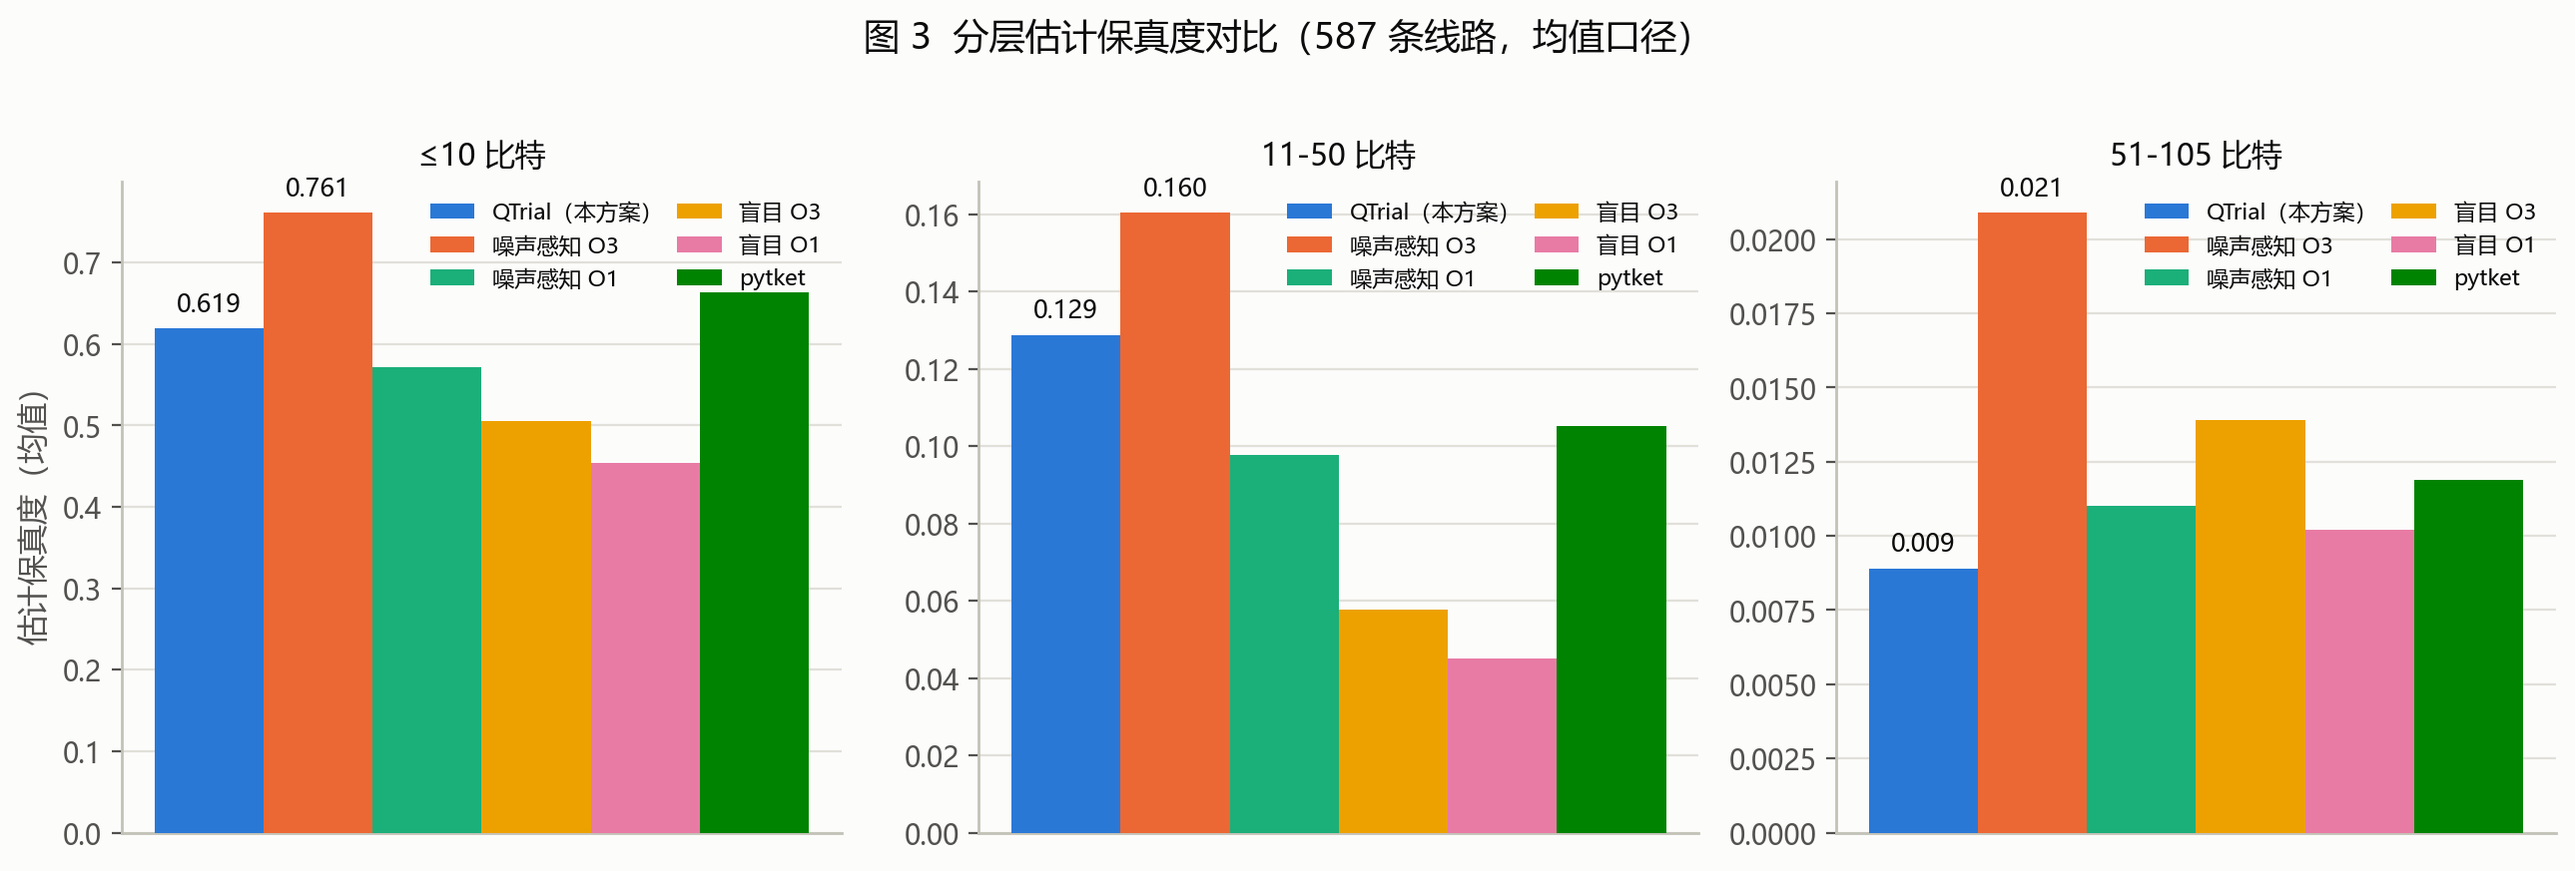
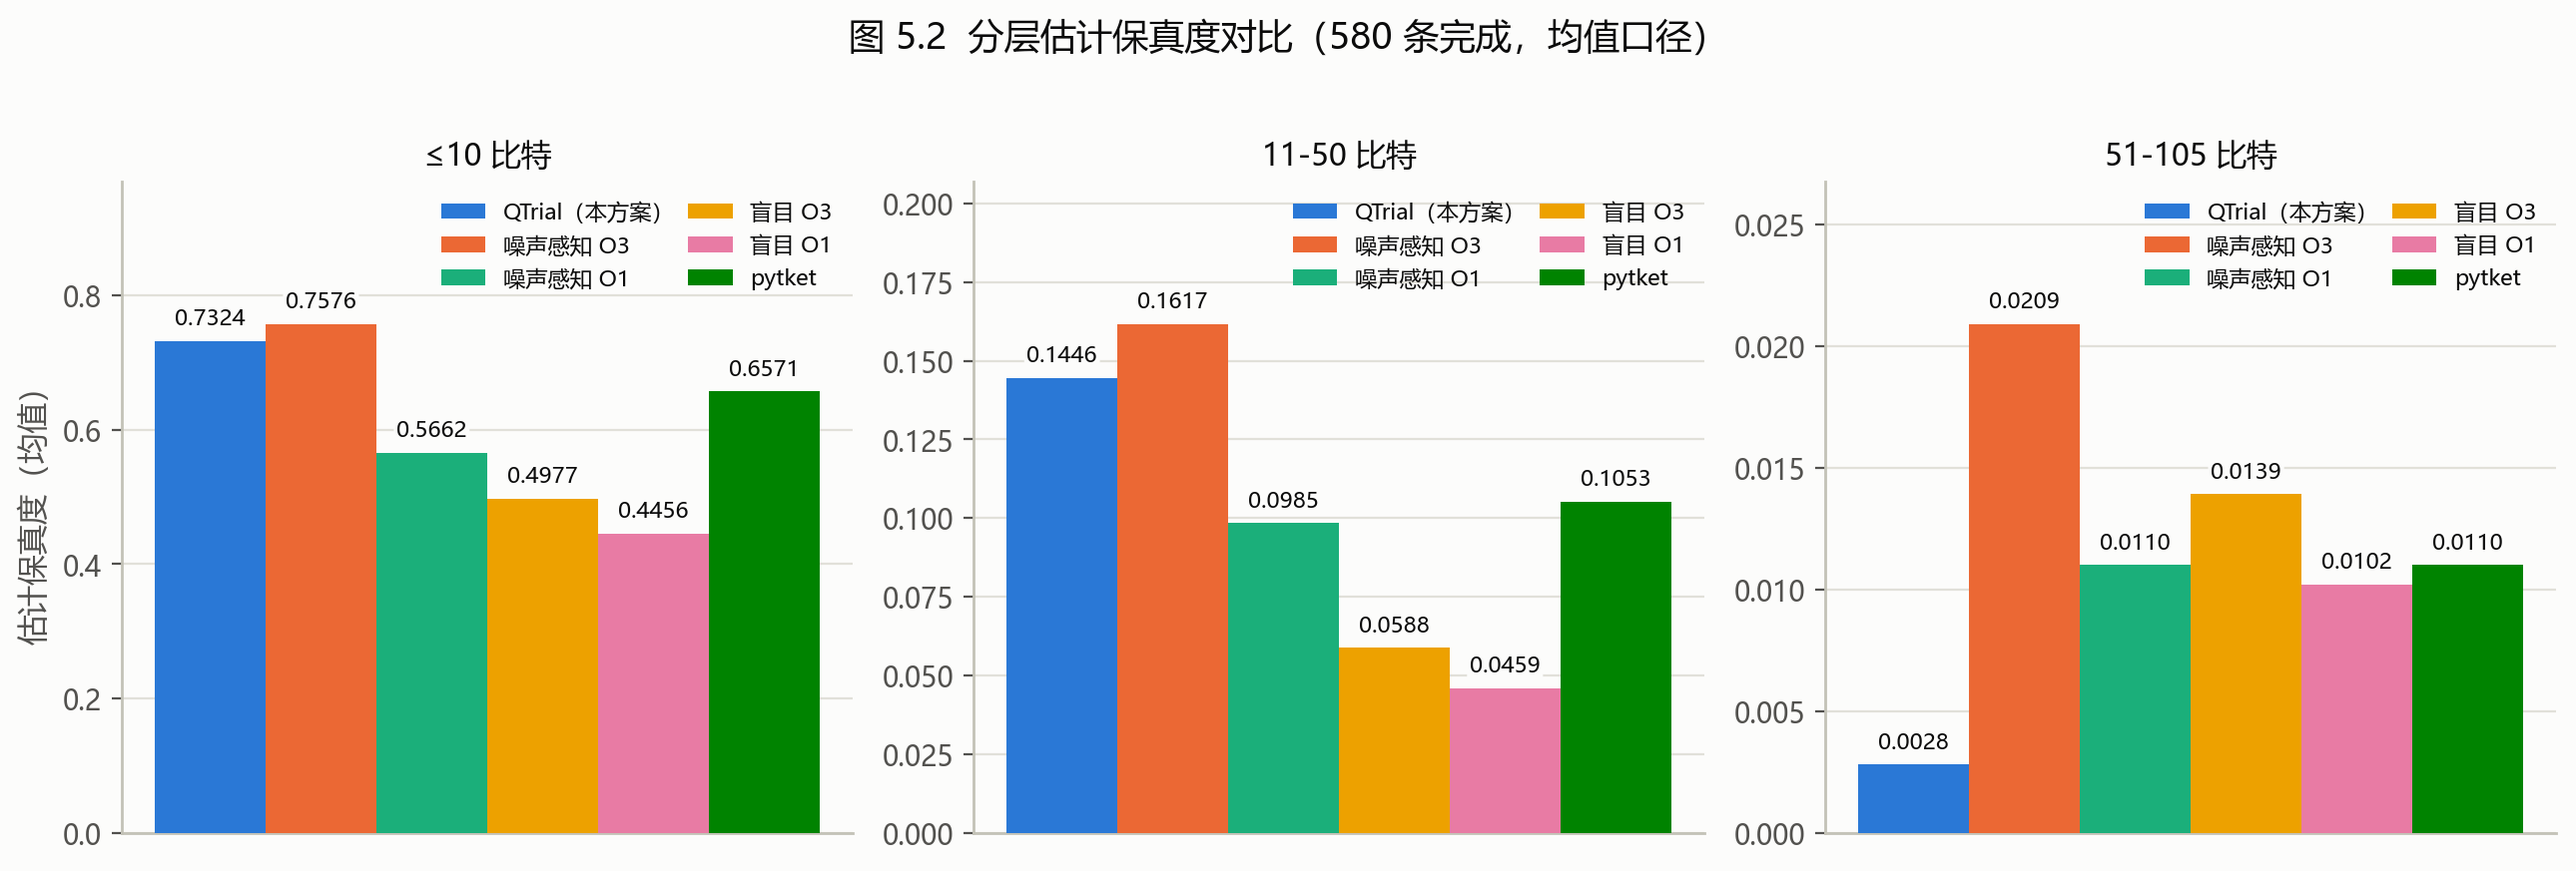
按初赛报告书脚本风格重生成 v8 实验结果图
- 恢复 make_report_figures 的三面板/顶部图例/横排数值风格，并生成 thesis 5.1-5.10
- 数据改用 v8 同口径（127/254/199=580 完成）；替换外部 agent 的单面板竖排版本
- 5.3 增加顶部留白、5.9 加宽画布避免标签重叠
- 5.7/5.8 用 make_runtime_compare 原风格重生成到 thesis

diff --git a/scripts/make_report_figures.py b/scripts/make_report_figures.py
@@ -127,11 +127,15 @@ def load_final_report():
     sections = re.split(r"\n## ", text)
     strata_map = {"≤10": "≤10 比特", "11-50": "11-50 比特", "51-105": "51-105 比特"}
     wins = {"感知O3": 0, "pytket": 0, "盲目O1": 0}
+    counts = {}
     for sec in sections:
         title = sec.split("\n", 1)[0]
         key = next((k for k in strata_map if title.startswith(k)), None)
         if key is None:
             continue
+        mc = re.search(r"（(\d+) 条完成", title)
+        if mc:
+            counts[strata_map[key]] = int(mc.group(1))
         # 胜场行累计（图 8 用）
         for mth, pat in (("感知O3", r"vs 感知O3 \*\*(\d+)\*\*"),
                          ("pytket", r"vs pytket \*\*(\d+)\*\*"),
@@ -157,6 +161,7 @@ def load_final_report():
                         depth_trim=float(parts[1]), depth_median=float(parts[2]))
         out[strata_map[key]] = m
     out["_total_wins"] = wins            # 三层累计的总体胜场（图 8 用）
+    out["_counts"] = counts              # 各层完成条数（标题/加权用）
     return out
 
 
@@ -228,7 +233,7 @@ def load_compare_models():
 
 
 # ---------------------------------------------------------------- 各图
-def fig1_training(curves, outdir):
+def fig1_training(curves, outdir, fig_no="1", out_name=None):
     fig, axes = plt.subplots(1, 2, figsize=(11, 4.2))
     for ax, curve in zip(axes, curves):
         lab, ep, vc, wall = curve
@@ -253,15 +258,15 @@ def fig1_training(curves, outdir):
                     fontsize=10, color=INK2)
         style_ax(ax, "训练轮次", "每轮训练耗时（秒）")
         ax.set_ylim(0, max(wall) * 1.25)
-    fig.suptitle("图 1  布局策略训练过程（验证集平均代价收敛 + 单轮耗时）",
+    fig.suptitle(f"图 {fig_no}  布局策略训练过程（验证集平均代价收敛 + 单轮耗时）",
                  fontsize=13, y=1.02)
     fig.tight_layout()
-    fig.savefig(outdir / "图1_训练学习曲线.png", dpi=200,
+    fig.savefig(outdir / (out_name or "图1_训练学习曲线.png"), dpi=200,
                 bbox_inches="tight", facecolor=SURFACE)
     plt.close(fig)
 
 
-def fig3_stratified_fidelity(data, outdir):
+def fig3_stratified_fidelity(data, outdir, fig_no="3", out_name=None):
     fig, axes = plt.subplots(1, 3, figsize=(13, 4.2))
     for ax, stratum in zip(axes, ["≤10 比特", "11-50 比特", "51-105 比特"]):
         m = data[stratum]
@@ -293,15 +298,16 @@ def fig3_stratified_fidelity(data, outdir):
         ax.set_title(stratum, fontsize=11, color=INK)
         ax.legend(frameon=False, fontsize=8, loc="upper right",
                   ncols=2, columnspacing=0.6)
-    fig.suptitle("图 3  分层估计保真度对比（587 条线路，均值口径）",
+    total = sum(data.get("_counts", {}).values()) or 587
+    fig.suptitle(f"图 {fig_no}  分层估计保真度对比（{total} 条完成，均值口径）",
                  fontsize=13, y=1.03)
     fig.tight_layout()
-    fig.savefig(outdir / "图3_分层保真度对比.png", dpi=200,
+    fig.savefig(outdir / (out_name or "图3_分层保真度对比.png"), dpi=200,
                 bbox_inches="tight", facecolor=SURFACE)
     plt.close(fig)
 
 
-def fig4_stratified_depth(data, outdir):
+def fig4_stratified_depth(data, outdir, fig_no="4", out_name=None):
     fig, axes = plt.subplots(1, 3, figsize=(13, 4.2))
     for ax, stratum, logy in zip(axes, ["≤10 比特", "11-50 比特", "51-105 比特"],
                                  [False, True, True]):
@@ -336,21 +342,23 @@ def fig4_stratified_depth(data, outdir):
                         bbox=dict(boxstyle="round,pad=0.15",
                                   facecolor=SURFACE, edgecolor="none"))
         if not logy:
-            ax.set_ylim(0, max(vals) * 1.25)
+            # 1.45 倍留出顶部图例空间（v8 感知 O1 深度 250 会与图例相撞）
+            ax.set_ylim(0, max(vals) * 1.45)
         style_ax(ax, "", "线路深度（截尾均值）" if stratum == "≤10 比特" else "")
         ax.set_title(f"{stratum}" + ("（对数刻度）" if logy else ""),
                      fontsize=11, color=INK)
         ax.legend(frameon=False, fontsize=8, loc="upper right",
                   ncols=2, columnspacing=0.6)
-    fig.suptitle("图 4  分层线路深度对比（截尾均值口径，去两端 10% 极值）",
+    total = sum(data.get("_counts", {}).values()) or 587
+    fig.suptitle(f"图 {fig_no}  分层线路深度对比（{total} 条完成，截尾均值口径）",
                  fontsize=13, y=1.03)
     fig.tight_layout()
-    fig.savefig(outdir / "图4_分层深度对比.png", dpi=200,
+    fig.savefig(outdir / (out_name or "图4_分层深度对比.png"), dpi=200,
                 bbox_inches="tight", facecolor=SURFACE)
     plt.close(fig)
 
 
-def fig6_defect_sweep(sweep, outdir):
+def fig6_defect_sweep(sweep, outdir, fig_no="6", out_name=None):
     fig, ax = plt.subplots(figsize=(7.5, 4.2))
     mults = [m for m, _ in sweep]
     # 末端标签按数值排序后错开纵偏移，避免数值接近时重叠
@@ -370,15 +378,15 @@ def fig6_defect_sweep(sweep, outdir):
     style_ax(ax, "缺陷误差放大倍数", "2Q 误差加权均值")
     ax.set_xticks(mults)
     ax.legend(frameon=False, fontsize=9, loc="upper left")
-    fig.suptitle("图 6  缺陷敏感性扫描（噪声感知的鲁棒性证据）", fontsize=13,
-                 y=1.02)
+    fig.suptitle(f"图 {fig_no}  缺陷敏感性扫描（噪声感知的鲁棒性证据）",
+                 fontsize=13, y=1.02)
     fig.tight_layout()
-    fig.savefig(outdir / "图6_缺陷敏感性扫描.png", dpi=200,
+    fig.savefig(outdir / (out_name or "图6_缺陷敏感性扫描.png"), dpi=200,
                 bbox_inches="tight", facecolor=SURFACE)
     plt.close(fig)
 
 
-def fig7_cross_topo(ct, outdir):
+def fig7_cross_topo(ct, outdir, fig_no="7", out_name=None):
     fig, ax = plt.subplots(figsize=(8.5, 4.2))
     groups = [g for g, _ in ct]
     series = ("QTrial", "感知O1", "感知O3", "盲目O1", "pytket")
@@ -407,32 +415,34 @@ def fig7_cross_topo(ct, outdir):
     ax.set_xticklabels(groups, fontsize=10)
     style_ax(ax, "", "2Q 误差加权均值（越低越好）")
     ax.legend(frameon=False, fontsize=9, loc="upper right")
-    fig.suptitle("图 7  跨拓扑噪声规避（同一策略零重训迁移）", fontsize=13,
-                 y=1.02)
+    fig.suptitle(f"图 {fig_no}  跨拓扑噪声规避（同一策略零重训迁移）",
+                 fontsize=13, y=1.02)
     fig.tight_layout()
-    fig.savefig(outdir / "图7_跨拓扑噪声规避.png", dpi=200,
+    fig.savefig(outdir / (out_name or "图7_跨拓扑噪声规避.png"), dpi=200,
                 bbox_inches="tight", facecolor=SURFACE)
     plt.close(fig)
 
 
-def fig8_overall(data, outdir):
-    fig, axes = plt.subplots(1, 2, figsize=(10.5, 4.0))
+def fig8_overall(data, outdir, fig_no="8", out_name=None):
+    fig, axes = plt.subplots(1, 2, figsize=(12.5, 4.0))
     ax = axes[0]
-    # 总体保真度 = 分层均值按层内线路数加权（129/259/199 → 587）
-    counts = {"≤10 比特": 129, "11-50 比特": 259, "51-105 比特": 199}
+    # 总体保真度 = 分层均值按层内完成条数加权（v8：127/254/199 → 580）
+    counts = data.get("_counts", {"≤10 比特": 129, "11-50 比特": 259,
+                                  "51-105 比特": 199})
+    total = sum(counts.values()) or 587
     series = [s for s in METHOD_ORDER
               if all(data[strt][s]["fidelity_mean"] is not None
                      for strt in counts)]
     vals = [sum(data[strt][s]["fidelity_mean"] * counts[strt]
-                for strt in counts) / sum(counts.values())
+                for strt in counts) / total
             for s in series]
     rects = ax.bar(range(len(series)), vals, 0.62,
                    color=[COLORS[s] for s in series], zorder=3)
     ax.set_xticks(range(len(series)))
     ax.set_xticklabels([METHOD_LABELS[s].replace("（本方案）", "") for s in series],
-                       fontsize=9)
+                       fontsize=8.5)
     value_labels(ax, rects, fmt="{:.3f}", fontsize=9)
-    style_ax(ax, "", "总体估计保真度（587 条加权均值）")
+    style_ax(ax, "", f"总体估计保真度（{total} 条加权均值）")
     ax.set_ylim(0, max(vals) * 1.2)
     ax = axes[1]
     wins = data.get("_total_wins", {})
@@ -449,14 +459,14 @@ def fig8_overall(data, outdir):
                     ha="center", va="bottom", fontsize=10, color=INK2)
     style_ax(ax, "", "逐线路胜场数")
     ax.set_ylim(0, max(wins.values()) * 1.25)
-    fig.suptitle("图 8  与成熟映射方案总体对比", fontsize=13, y=1.03)
+    fig.suptitle(f"图 {fig_no}  与成熟映射方案总体对比", fontsize=13, y=1.03)
     fig.tight_layout()
-    fig.savefig(outdir / "图8_总体对比.png", dpi=200,
+    fig.savefig(outdir / (out_name or "图8_总体对比.png"), dpi=200,
                 bbox_inches="tight", facecolor=SURFACE)
     plt.close(fig)
 
 
-def fig9_laurel_detail(rows, outdir):
+def fig9_laurel_detail(rows, outdir, fig_no="9", out_name=None):
     fig, ax = plt.subplots(figsize=(9.5, 4.2))
     names = [r[0] for r in rows]
     diffs = [r[1] - r[2] for r in rows]
@@ -473,10 +483,10 @@ def fig9_laurel_detail(rows, outdir):
     ax.annotate(f"LAUREL 更优 {n_win} 条 / 共 {len(diffs)} 条",
                 xy=(0.02, 0.9), xycoords="axes fraction", fontsize=10,
                 color=INK2)
-    fig.suptitle("图 9  LAUREL 与原配置逐线路保真度差（QUEKO BIGD）",
+    fig.suptitle(f"图 {fig_no}  LAUREL 与原配置逐线路保真度差（QUEKO BIGD）",
                  fontsize=13, y=1.02)
     fig.tight_layout()
-    fig.savefig(outdir / "图9_LAUREL逐线路对比.png", dpi=200,
+    fig.savefig(outdir / (out_name or "图9_LAUREL逐线路对比.png"), dpi=200,
                 bbox_inches="tight", facecolor=SURFACE)
     plt.close(fig)
 
@@ -661,9 +671,28 @@ def main():
 
     fig10_layout_contribution(outdir)
     print("图10 布局贡献对比: OK")
-    # thesis 版（内部标题与第 5 章编号一致：图5.6）
-    fig10_layout_contribution(outdir / "thesis", fig_no="5.6",
-                               out_name="图5.6_布局贡献对比.png")
+    # thesis 版（内部标题与第 5 章编号一致：图5.1-5.10）
+    thesis_dir = outdir / "thesis"
+    thesis_dir.mkdir(parents=True, exist_ok=True)
+    if curves:
+        fig1_training(curves, thesis_dir, fig_no="5.1",
+                       out_name="图5.1_训练学习曲线.png")
+    fig3_stratified_fidelity(data, thesis_dir, fig_no="5.2",
+                             out_name="图5.2_分层保真度对比.png")
+    fig4_stratified_depth(data, thesis_dir, fig_no="5.3",
+                          out_name="图5.3_分层深度对比.png")
+    fig6_defect_sweep(load_defect_sweep(), thesis_dir, fig_no="5.4",
+                      out_name="图5.4_缺陷敏感性扫描.png")
+    fig7_cross_topo(load_cross_topo(), thesis_dir, fig_no="5.5",
+                    out_name="图5.5_跨拓扑噪声规避.png")
+    fig8_overall(data, thesis_dir, fig_no="5.9",
+                 out_name="图5.9_总体对比.png")
+    if cm:
+        fig9_laurel_detail(cm, thesis_dir, fig_no="5.10",
+                           out_name="图5.10_LAUREL逐线路对比.png")
+    fig10_layout_contribution(thesis_dir, fig_no="5.6",
+                              out_name="图5.6_布局贡献对比.png")
+    print("thesis 图5.1-5.6/5.9/5.10: OK")
 
     table1_training_settings(outdir)
     print("表1 训练设置: OK")
